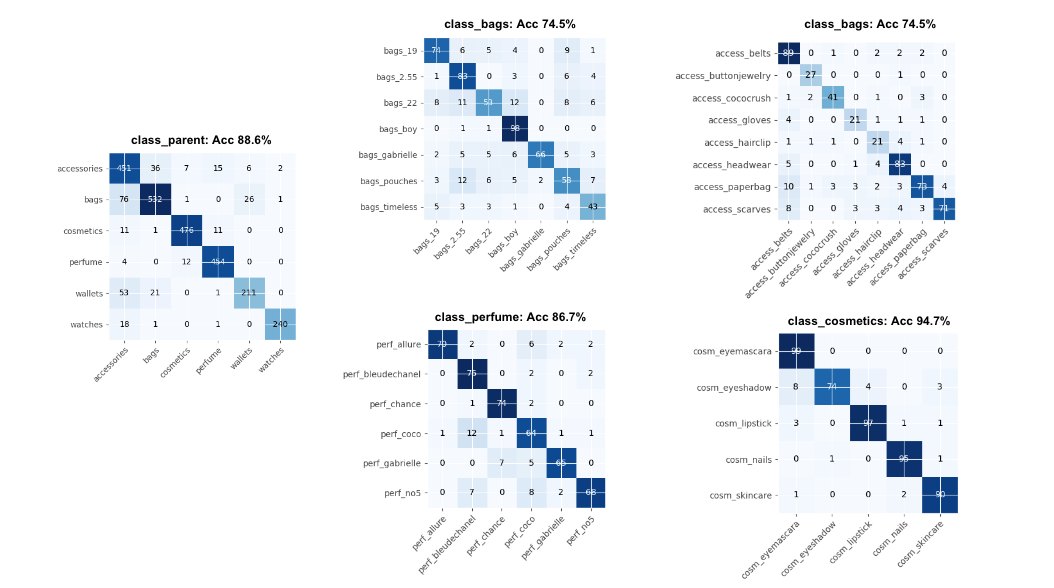
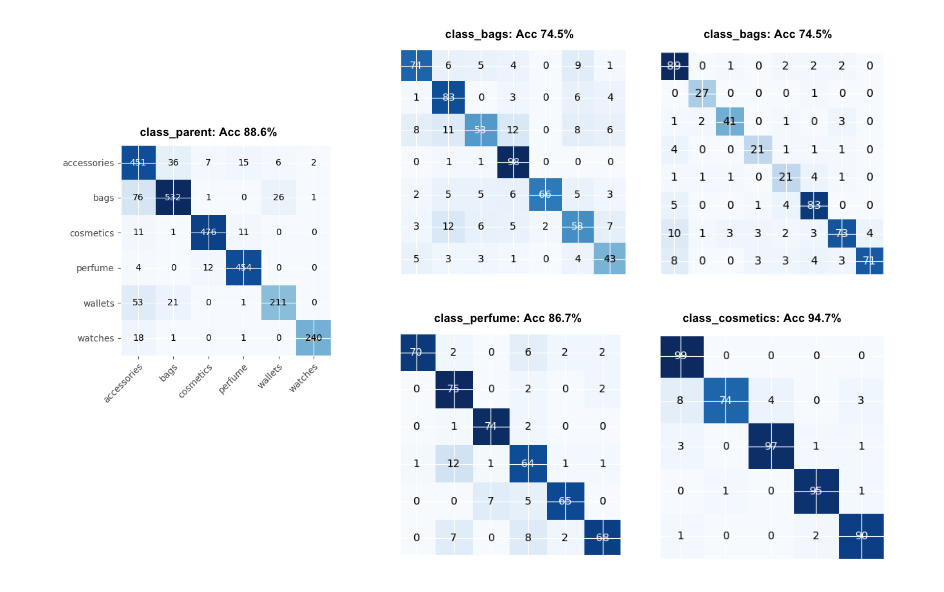
removed chxnel details

diff --git a/dataset.example/README.md b/dataset.example/README.md
@@ -5,20 +5,19 @@ dataset.example
 ├── accessories
 │   ├── access_belts
 │   ├── access_buttonjewelry
-│   ├── access_cococrush
 │   ├── access_gloves
 │   ├── access_hairclip
 │   ├── access_headwear
 │   ├── access_paperbag
 │   └── access_scarves
 ├── bags
-│   ├── bags_19
-│   ├── bags_22
-│   ├── bags_2.55
-│   ├── bags_boy
-│   ├── bags_gabrielle
-│   ├── bags_pouches
-│   └── bags_timeless
+│   ├── bags_a
+│   ├── bags_b
+│   ├── bags_c
+│   ├── bags_d
+│   ├── bags_e
+│   ├── bags_f
+│   └── bags_g
 ├── cosmetics
 │   ├── cosm_eyemascara
 │   ├── cosm_eyeshadow
@@ -26,21 +25,21 @@ dataset.example
 │   ├── cosm_nails
 │   └── cosm_skincare
 ├── perfume
-│   ├── perf_allure
-│   ├── perf_bleudechanel
-│   ├── perf_chance
-│   ├── perf_coco
-│   ├── perf_gabrielle
-│   └── perf_no5
+│   ├── perf_a
+│   ├── perf_b
+│   ├── perf_c
+│   ├── perf_d
+│   ├── perf_e
+│   └── perf_f
 ├── wallets
 │   ├── wallet_cardholders
 │   ├── wallet_coinpurse
 │   └── wallet_wallets
 └── watches
-    ├── watch_boyfriend
-    ├── watch_codecoco
-    ├── watch_J12
-    └── watch_premiere
+    ├── watch_a
+    ├── watch_b
+    ├── watch_c
+    └── watch_d
 
 39 directories, 1 file
 ```
